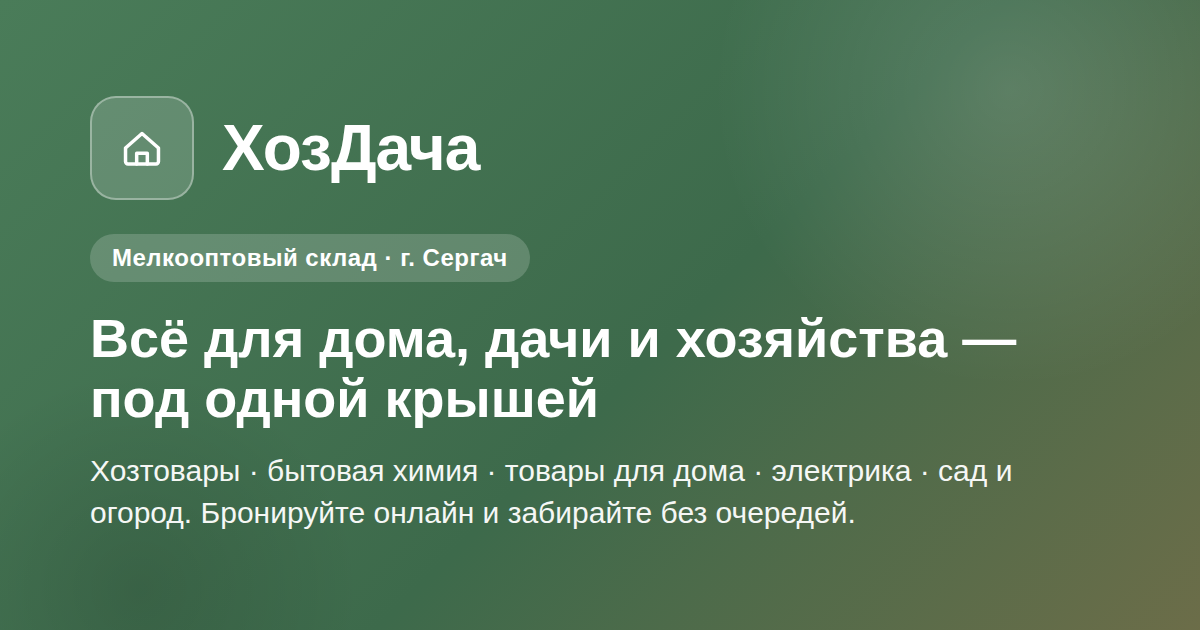
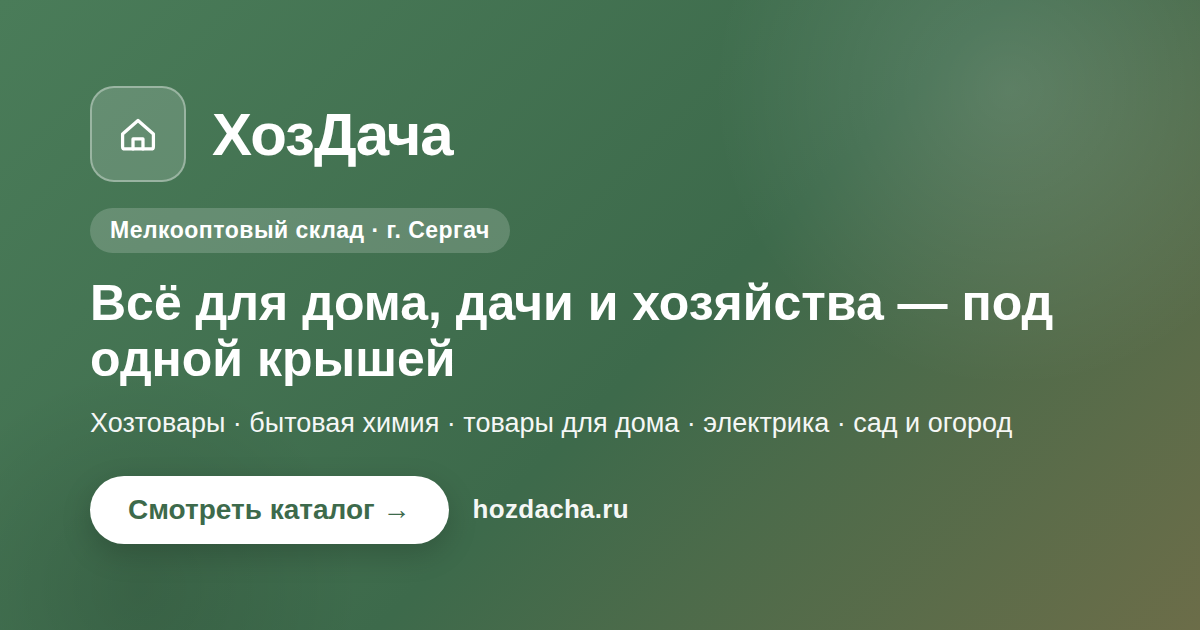
seo: укоротил title/description и добавил CTA на og-картинку
По фидбеку opengraph.xyz:
- title 78 → 38 символов («ХозДача — мелкооптовый склад в Сергаче»)
- meta description 227 → ~138, og/twitter description 141 → ~96
- og-image перерисована с призывом к действию («Смотреть каталог →» + hozdacha.ru),
  og:image помечена ?v=2 для сброса кэша превью

Changed region(s): [[0.0617, 0.1206, 0.8942, 0.6937], [0.0617, 0.7238, 0.8633, 0.8746]]

diff --git a/web/templates/index.html b/web/templates/index.html
@@ -4,8 +4,8 @@
     <meta charset="UTF-8">
     <meta name="viewport" content="width=device-width, initial-scale=1.0">
 
-    <title>ХозДача — мелкооптовый склад в Сергаче: хозтовары, бытовая химия, сад и огород</title>
-    <meta name="description" content="Мелкооптовый склад «ХозДача» в Сергаче: хозтовары, бытовая химия, товары для дома, электрика и всё для сада и огорода — по выгодным ценам под одной крышей. Бронируйте онлайн и забирайте без очередей или приезжайте за покупками.">
+    <title>ХозДача — мелкооптовый склад в Сергаче</title>
+    <meta name="description" content="Хозтовары, бытовая химия, товары для дома, электрика, сад и огород — под одной крышей в Сергаче. Бронируйте онлайн и забирайте без очередей.">
     <meta name="keywords" content="ХозДача, мелкооптовый склад, Сергач, хозтовары, бытовая химия, товары для дома, электрика, сад и огород, садовый инвентарь">
     <link rel="canonical" href="https://hozdacha.ru/">
     <meta name="theme-color" content="#4a7c59">
@@ -21,16 +21,16 @@
     <meta property="og:locale" content="ru_RU">
     <meta property="og:url" content="https://hozdacha.ru/">
     <meta property="og:title" content="ХозДача — мелкооптовый склад в Сергаче">
-    <meta property="og:description" content="Хозтовары, бытовая химия, товары для дома, электрика и всё для сада и огорода — под одной крышей. Бронируйте онлайн и забирайте без очередей.">
-    <meta property="og:image" content="https://hozdacha.ru/static/images/og-image.png">
+    <meta property="og:description" content="Хозтовары, химия, товары для дома, электрика, сад и огород — под одной крышей. Бронируйте онлайн.">
+    <meta property="og:image" content="https://hozdacha.ru/static/images/og-image.png?v=2">
     <meta property="og:image:width" content="1200">
     <meta property="og:image:height" content="630">
 
     <!-- Twitter / X -->
     <meta name="twitter:card" content="summary_large_image">
     <meta name="twitter:title" content="ХозДача — мелкооптовый склад в Сергаче">
-    <meta name="twitter:description" content="Хозтовары, бытовая химия, товары для дома, электрика и всё для сада и огорода — под одной крышей.">
-    <meta name="twitter:image" content="https://hozdacha.ru/static/images/og-image.png">
+    <meta name="twitter:description" content="Хозтовары, химия, товары для дома, электрика, сад и огород — под одной крышей. Бронируйте онлайн.">
+    <meta name="twitter:image" content="https://hozdacha.ru/static/images/og-image.png?v=2">
 
     <link rel="stylesheet" href="/static/css/style.css?v=27">
     <link rel="stylesheet" href="/static/css/promotions.css?v=1">
